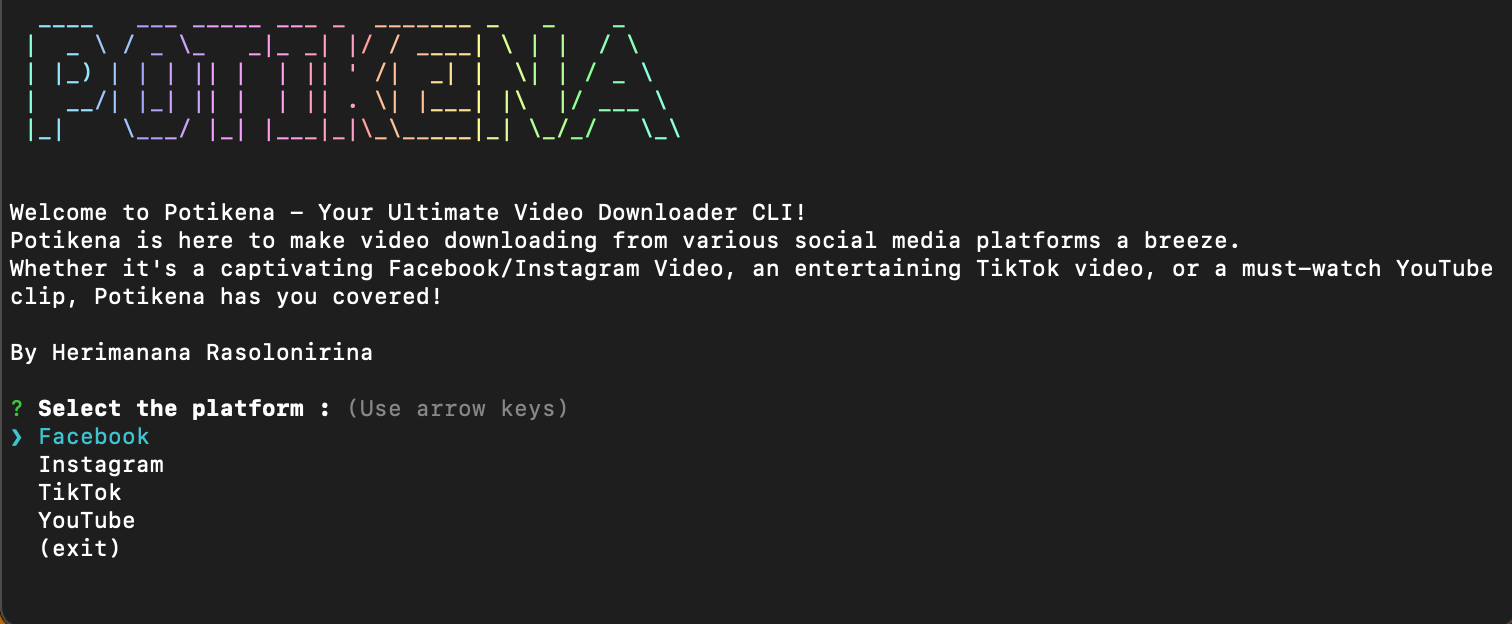
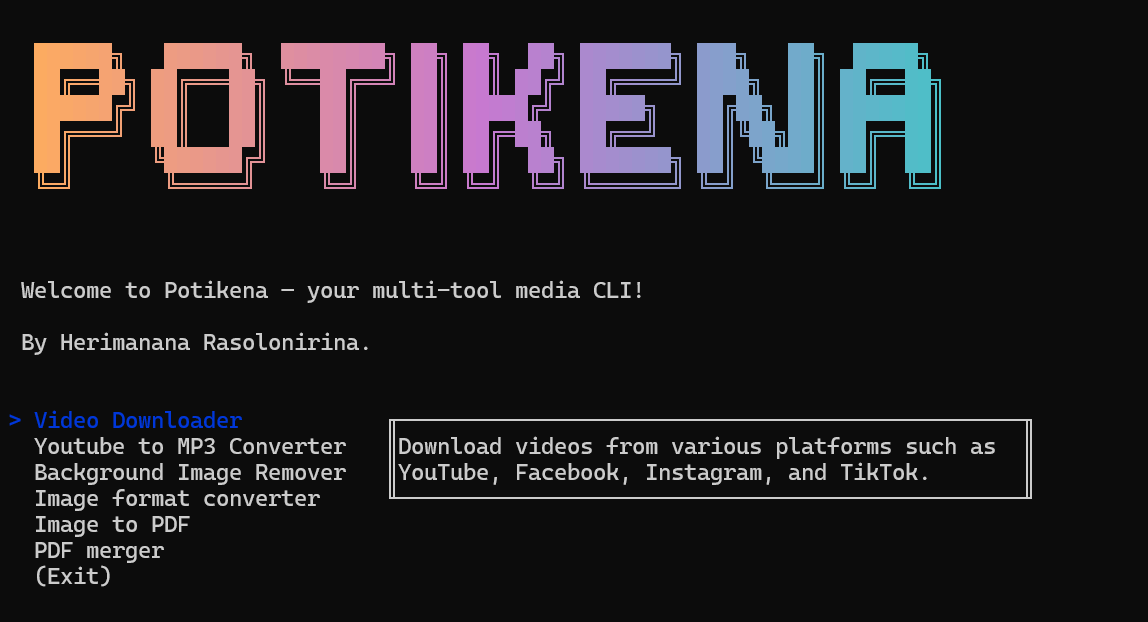
update changelog

diff --git a/README.md b/README.md
@@ -1,21 +1,35 @@
-# Potikena - Your Ultimate Video Downloader CLI
+# Potikena - Your Ultimate Media CLI
 
-Potikena is a simple command-line tool that allows you to easily download videos from various social media platforms. Whether it's a captivating Facebook/Instagram Video, an entertaining TikTok video, or a must-watch YouTube clip, Potikena has you covered!
+Potikena is a versatile command-line tool that allows you to perform a variety of media tasks efficiently. From downloading videos to converting and manipulating images and PDFs, Potikena provides a simple interface to handle all your media needs.
 
-💡<b>Note for YouTube: Due to restrictions on YouTube, use the URL obtained from the "Share" button on the video page, as the navigation bar link won't work.</b>💡
+
+
+💡 **Important Note: The first launch may take some time as necessary resources are being loaded.** 💡
+
+
 
 ![Potikena ScreenShot](./screenshot/main.png)
 
 ## Disclaimer
-Potikena is an experimental tool and intended for personal use only, and the developer (Herimanana Rasolonirina) is not responsible for any misuse of the tool. Users are advised to use Potikena responsibly and comply with the terms of service of the respective platforms.
+Potikena is an experimental tool intended for personal use only. The developer (Herimanana Rasolonirina) is not responsible for any misuse of the tool. Users should comply with the terms of service of the respective platforms.
 
-## Dependency
-
-This tool owes its existence to the diligent efforts and dedication of the package's author --> [nayan-media-downloader](https://www.npmjs.com/package/nayan-media-downloader)
 
 ## Features
 
-- Download videos from Facebook, Instagram, TikTok, YouTube, and more.
+### Online features
+- Download videos from Facebook, Instagram, TikTok, YouTube.
+- Convert YouTube videos to MP3 format.
+### Offline features (no internet required)
+- Remove the background from images. 
+- Convert images to different formats (PNG, JPEG, WEBP, AVIF, TIFF, GIF).
+- Convert images to PDF.
+- Merge multiple PDFs into a single file.
+
+## Upcoming features
+[ ] Add watermark to images or PDFs.
+[ ] Ability to provide arguments directly when calling `potikena`, skipping interactive prompts.
+
+
 
 ## Installation
 
@@ -47,12 +61,5 @@ Launch the tool using this command
 
 ```bash
 potikena
+# May take some time as necessary resources are being loaded.
 ```
-To download a video, simply run the potikena command and follow the prompts:
-
-- Choose the platform (facebook, instagram, tiktok or Youtube).
-- Enter the URL of the video.
-- Specify the path where you want to save the downloaded video.
-
-Note for YouTube:
-Due to restrictions on YouTube, use the URL obtained from the "Share" button on the video page, as the navigation bar link won't work.

diff --git a/changelog.md b/changelog.md
@@ -5,7 +5,10 @@ All notable changes to this project will be documented in this file.
 The format is based on [Keep a Changelog](https://keepachangelog.com/en/1.1.0/),
 and this project adheres to [Semantic Versioning](https://semver.org/spec/v2.0.0.html).
 
-## [1.1.0]
+## [Unreleased]
+- Ability to provide arguments directly when calling `potikena`, skipping interactive prompts.
+
+## [1.1.0] - 2025-11-05
 - Refractoring to migrate to Ink 
 - Migrate from JS to Typescript
 - Add Youtube Video to MP3 Converter
